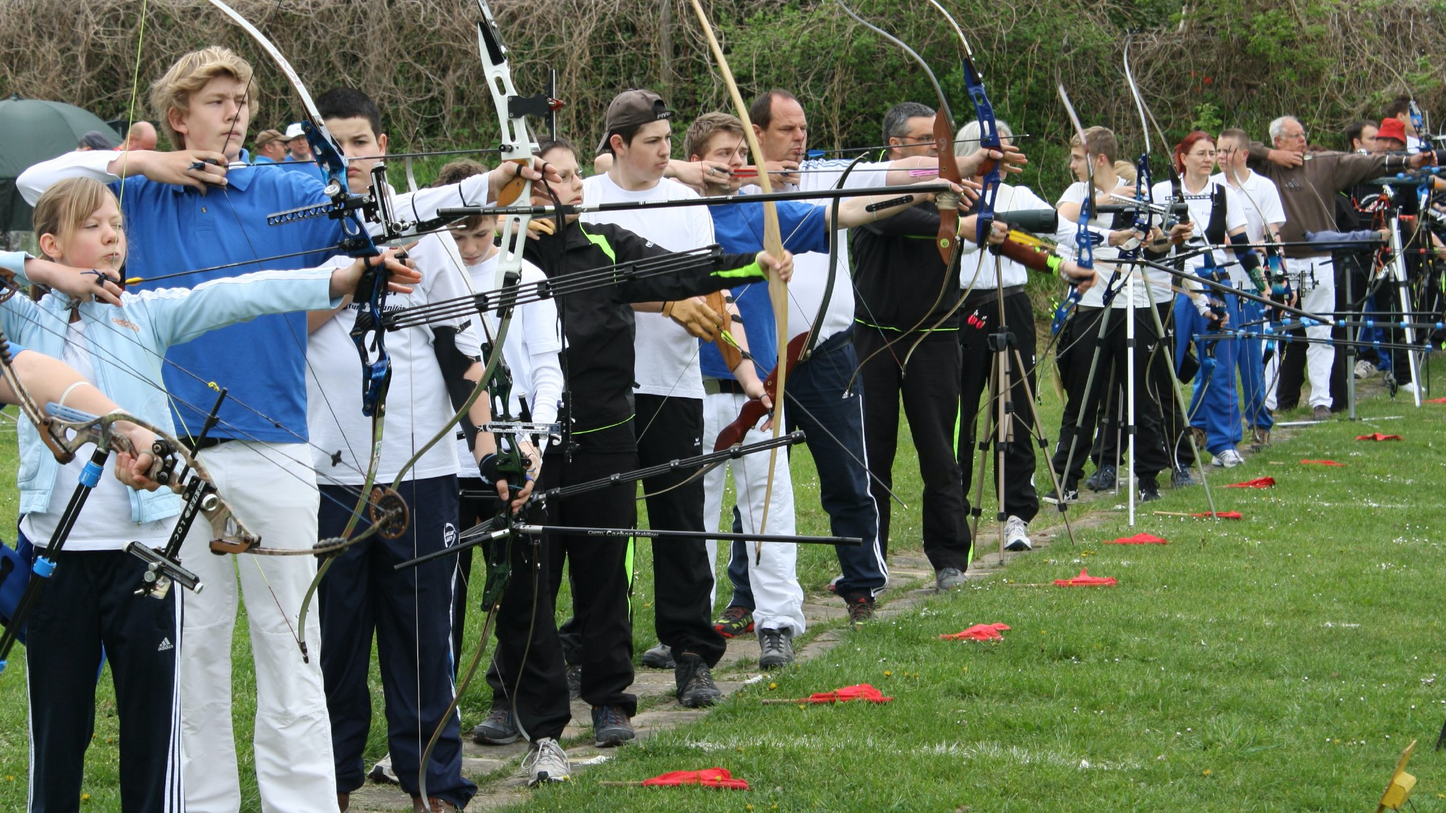
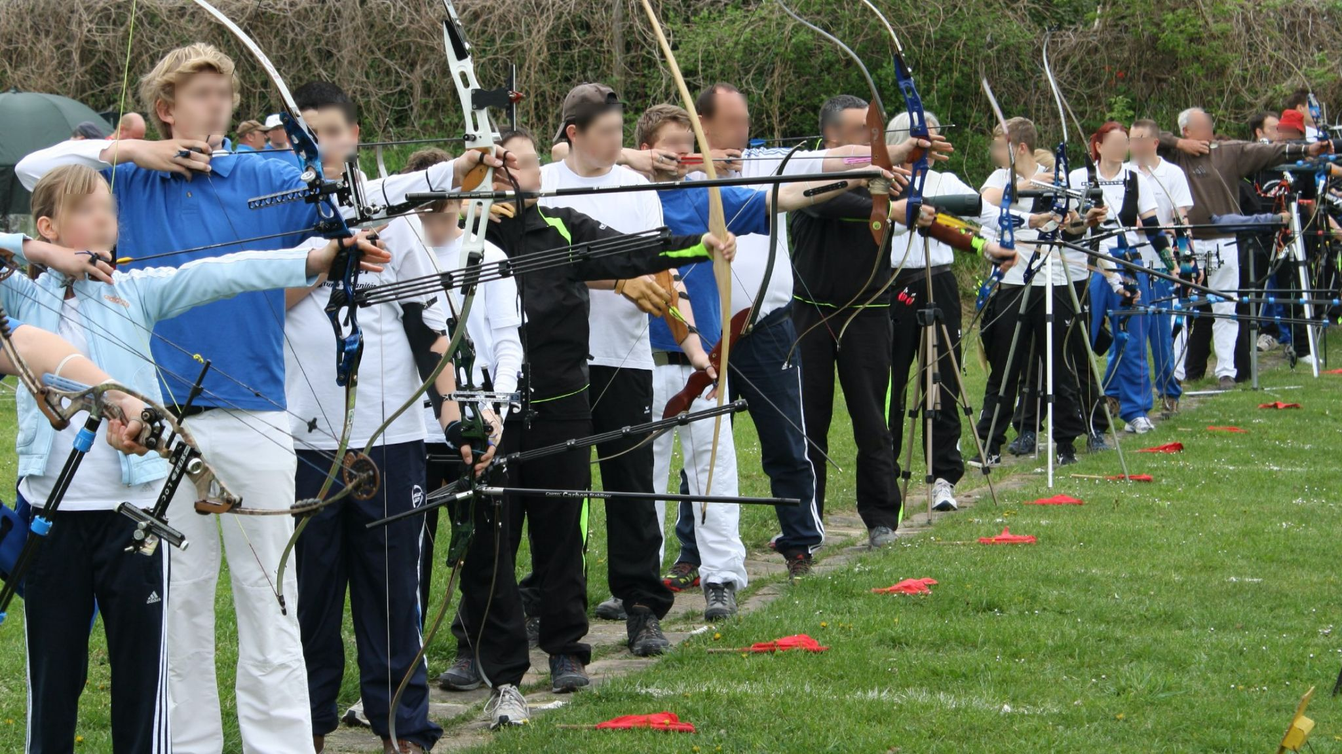
reset isX upon resetting function and using blurred qualification image

diff --git a/lib/ScoreInstance.dart b/lib/ScoreInstance.dart
@@ -268,6 +268,7 @@ class ScoreInstance {
     pRadius = 1.3;
     pAngle = 13 / 20 * pi;
     isUntouched = 1;
+    isX = false;
     // position only temporary, will be set by targetpage to be on screen side
   }
 
